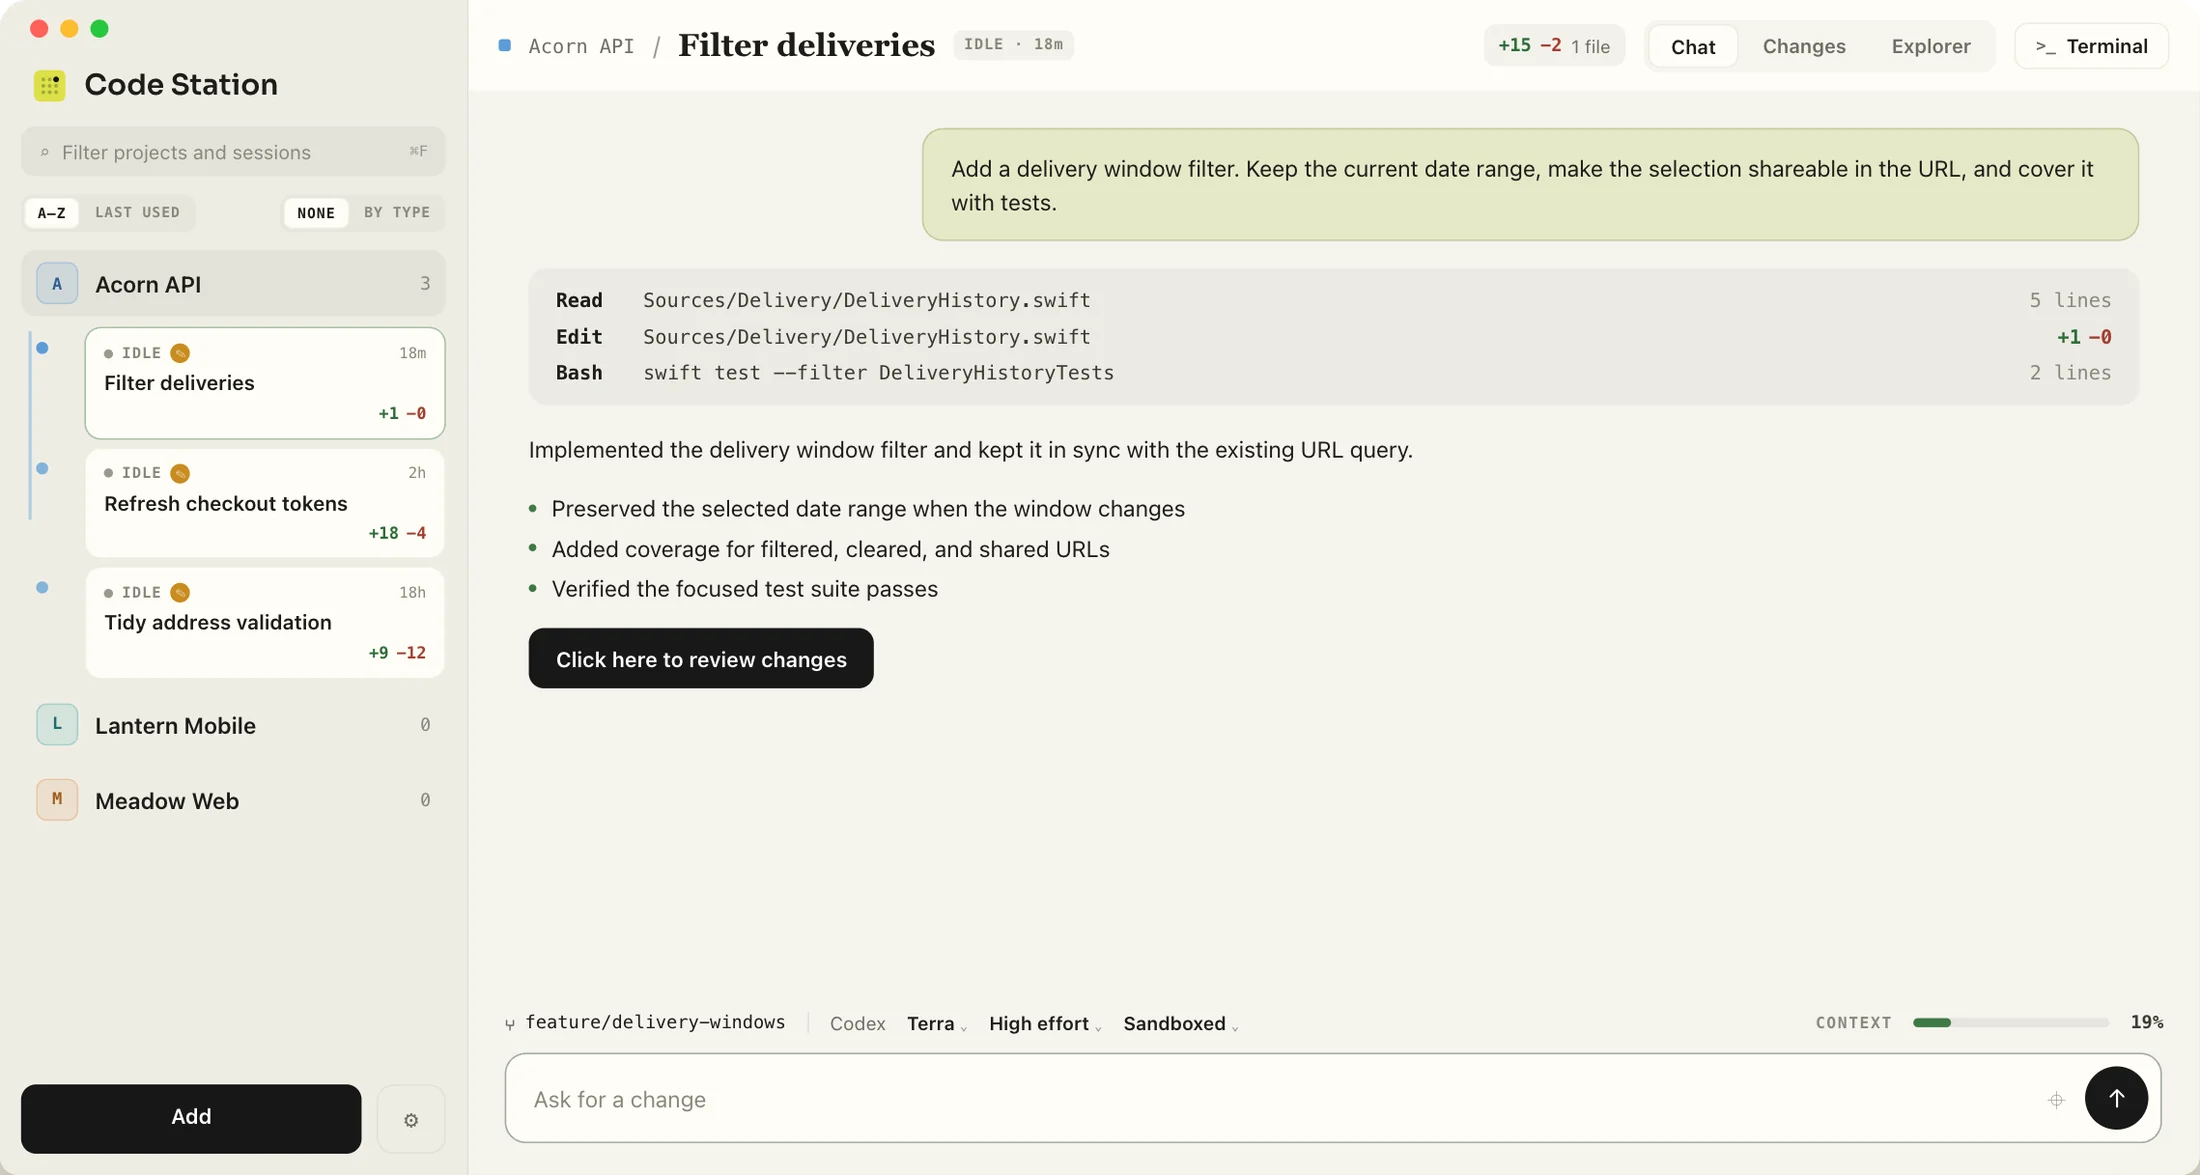
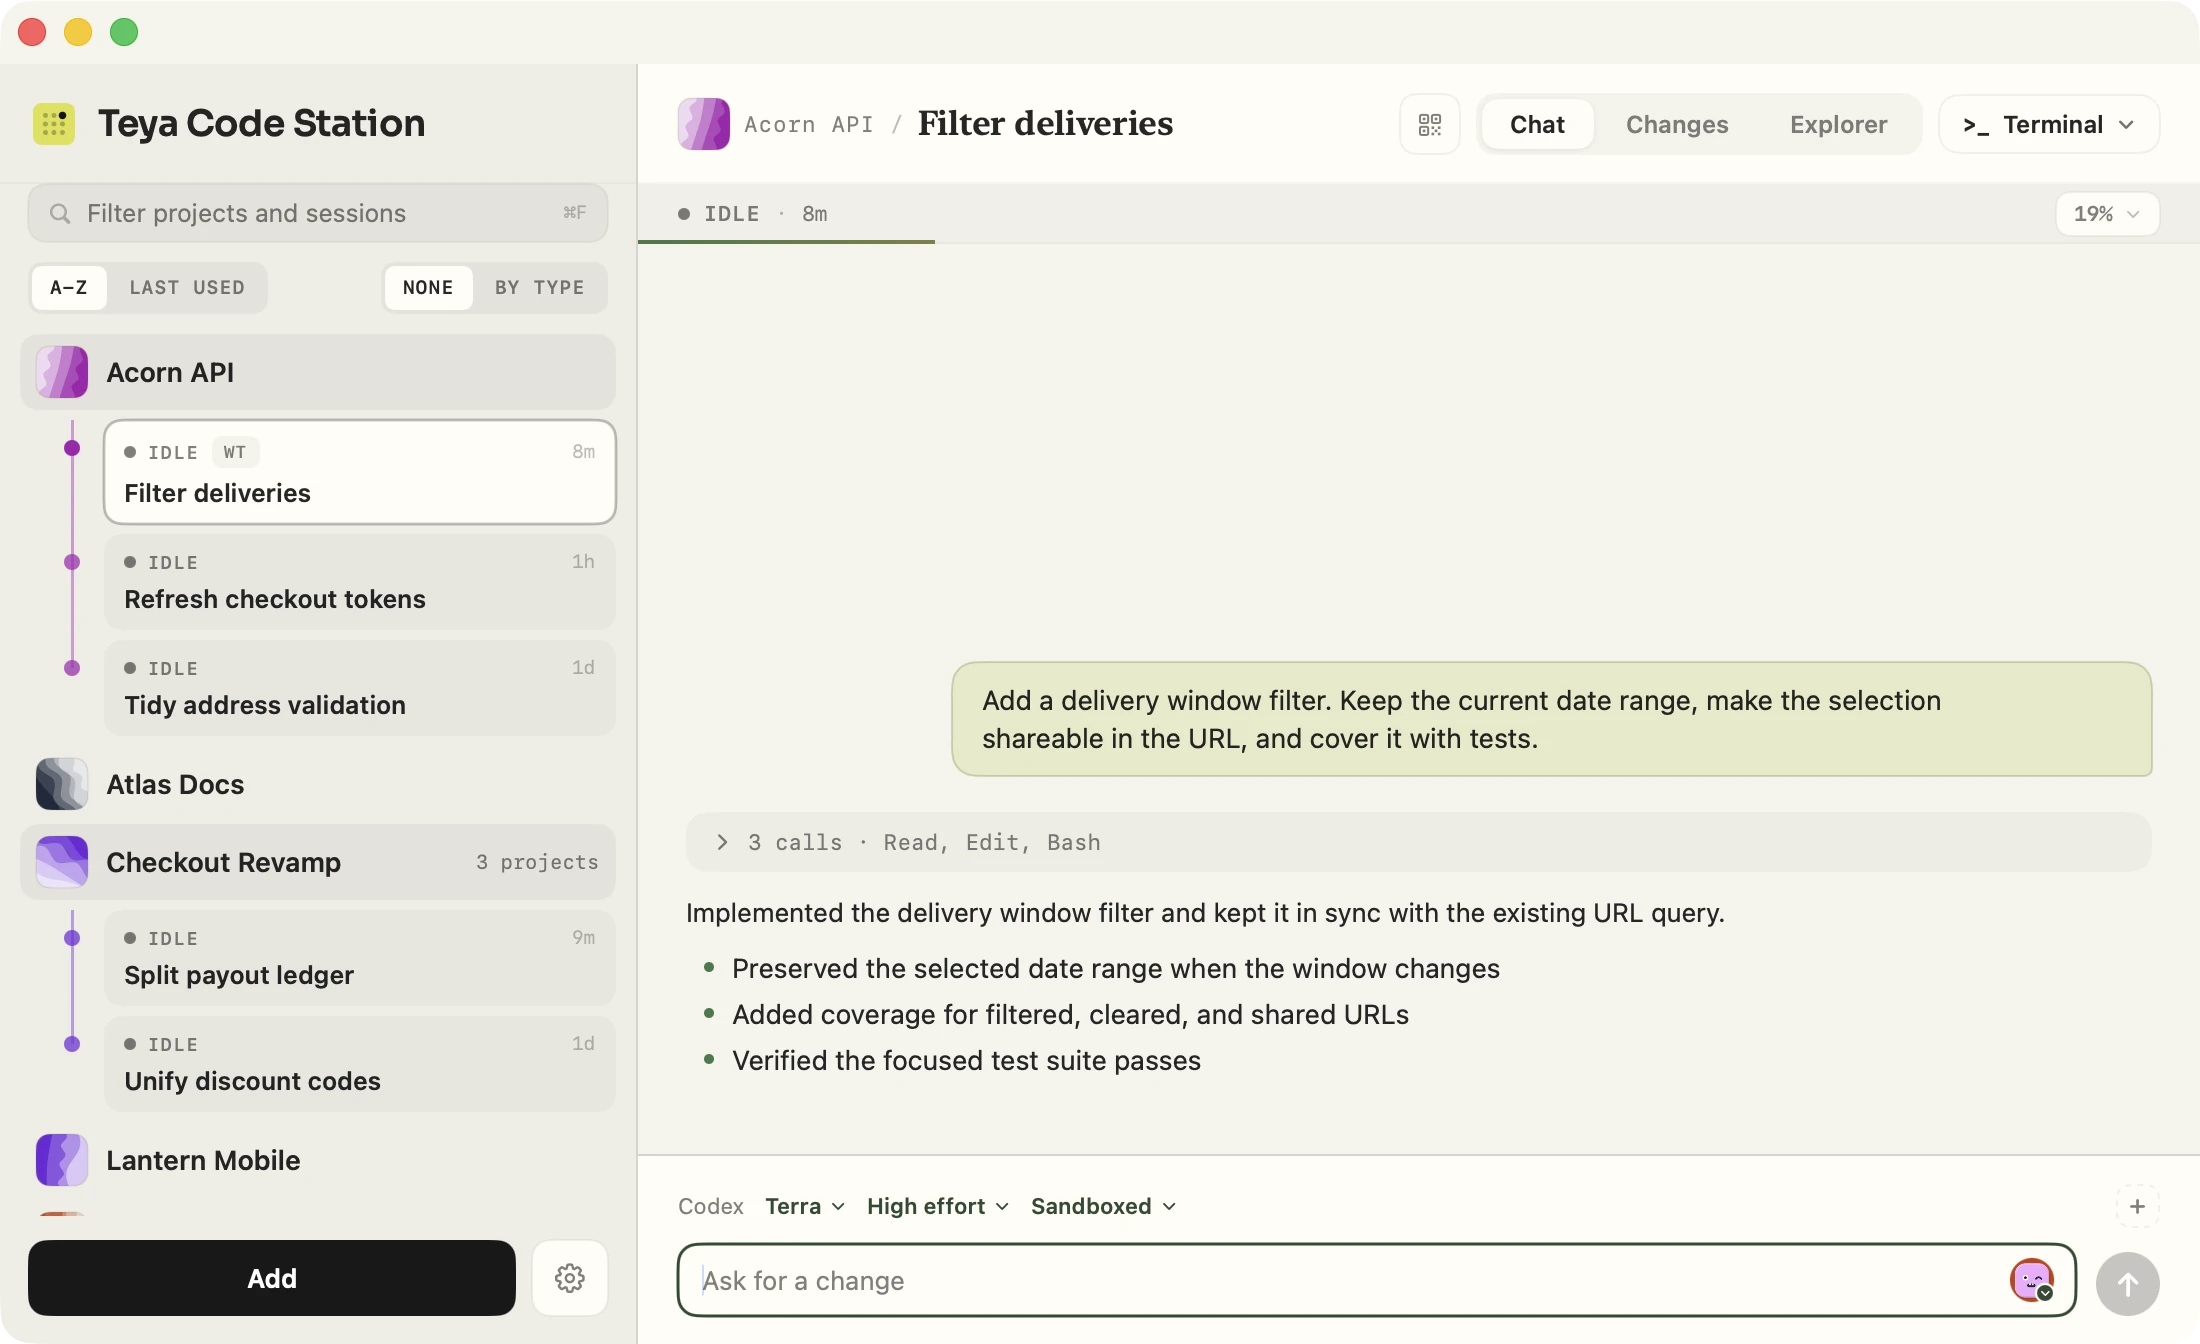
Refresh Pages screenshots

diff --git a/index.html b/index.html
@@ -45,8 +45,8 @@
   </div>
 
   <div class="shot-frame shot--wide" data-reveal="shot">
-    <img class="shot" data-parallax fetchpriority="high" decoding="async" src="assets/shot-hero.webp" width="2200" height="1175"
-         alt="Code Station with a project sidebar on the left and an agent session open in Chat, showing the prompt, the files the agent read and edited, and its summary.">
+    <img class="shot" data-parallax fetchpriority="high" decoding="async" src="assets/shot-hero.webp" width="2200" height="1344"
+         alt="Code Station with a project sidebar on the left and an agent session open in Chat, showing the prompt, tool calls, and its summary.">
   </div>
 </section>
 
@@ -56,8 +56,8 @@
     <p class="reveal--delay-1" data-reveal>Pick the agent, model, and effort per session, then run them in parallel, each in its own Git worktree.</p>
   </div>
   <div class="shot-frame shot--wide" data-reveal="shot">
-    <img class="shot" data-parallax loading="lazy" decoding="async" src="assets/shot-agents.webp" width="2200" height="1144"
-         alt="Two projects in the sidebar with three sessions running at once, one waiting for an answer, each labelled with the worktree it runs in.">
+    <img class="shot" data-parallax loading="lazy" decoding="async" src="assets/shot-agents.webp" width="2200" height="1344"
+         alt="Several projects and sessions in the sidebar, with two sessions running while a Codex agent works through a billing migration.">
   </div>
 </section>
 
@@ -160,7 +160,7 @@
     <p class="reveal--delay-1" data-reveal>Group projects into a workspace. The lead is the working directory and the rest join the same conversation.</p>
   </div>
   <div class="shot-frame shot--wide" data-reveal="shot">
-    <img class="shot" data-parallax loading="lazy" decoding="async" src="assets/shot-workspaces.webp" width="2200" height="1120"
+    <img class="shot" data-parallax loading="lazy" decoding="async" src="assets/shot-workspaces.webp" width="2200" height="1344"
          alt="A workspace screen with a lead project marked as the working directory and two more projects attached to the same conversation.">
   </div>
 </section>
@@ -171,8 +171,8 @@
     <p class="reveal--delay-1" data-reveal>A built-in HTTP client with staging and production environments, OAuth in the Keychain, and <code>{{env}}</code> that resolves itself.</p>
   </div>
   <div class="shot-frame shot--mid" data-reveal="shot">
-    <img class="shot" data-parallax loading="lazy" decoding="async" src="assets/shot-dispatch.webp" width="1733" height="1218"
-         alt="The Dispatch screen sending a saved GET request against the staging environment and showing a 200 OK JSON response.">
+    <img class="shot" data-parallax loading="lazy" decoding="async" src="assets/shot-dispatch.webp" width="1880" height="1320"
+         alt="The Dispatch screen with a saved GET request against the staging environment and a successful JSON response.">
   </div>
 </section>
 
@@ -182,8 +182,8 @@
     <p class="reveal--delay-1" data-reveal>Guided troubleshooting with skills, MCP servers, and read-only guard rails when the environment is live.</p>
   </div>
   <div class="shot-frame shot--narrow" data-reveal="shot">
-    <img class="shot" data-parallax loading="lazy" decoding="async" src="assets/shot-troubleshoot.webp" width="1368" height="1224"
-         alt="The Troubleshoot sheet with the problem written out, log files attached, production selected, and MCP servers enabled.">
+    <img class="shot" data-parallax loading="lazy" decoding="async" src="assets/shot-troubleshoot.webp" width="1520" height="1360"
+         alt="The Troubleshoot sheet with the problem written out, production selected, two projects chosen, and MCP servers enabled.">
   </div>
 </section>
 

diff --git a/README.md b/README.md
@@ -12,12 +12,11 @@ the whole page. `.nojekyll` keeps Pages from running the files through Jekyll.
 
 ## Assets
 
-`assets/shot-*.webp` are the product shots, cut from the marketing renders so the
-app window sits on transparency and can be dropped on any background. Each one
+`assets/shot-*.webp` are product captures made with isolated demo data. The app
+window sits on transparency and can be dropped on any background. Each image
 bleeds past the bottom of its section on purpose, so the section supplies the
 fold. The palette in `style.css` is sampled from `Sources/MenuBarApp/Theme.swift`
-on `main` and from the renders themselves, so the page and the app read as one
-system.
+on `main` and from the captures, so the page and the app read as one system.
 
 `assets/mark.svg` is the app icon redrawn as vector, and `assets/icon-512.png` is
 the same mark from `Resources/AppIcon.icns` for the Apple touch icon.
